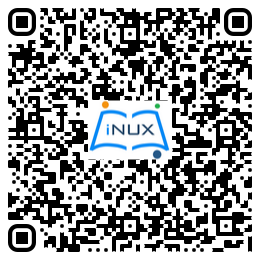
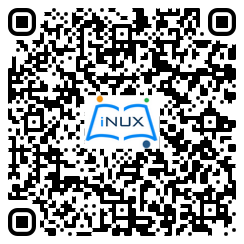
updates

diff --git a/GW_Project/Readme.md b/GW_Project/Readme.md
@@ -2,6 +2,7 @@
 
 |Content|Type|Preview|Access| QR |
 |-------|----|-------|------| ---|
-|Well catchment| Notebook with explanations| Preview FIG | [![Binder](https://mybinder.org/badge_logo.svg)](https://mybinder.org/v2/gh/gw-inux/Jupyter-Notebooks/HEAD?urlpath=voila%2Frender%2FGW_Project%2FWell_Catchment_FIG.ipynb) | ![QR](https://github.com/gw-inux/Jupyter-Notebooks/blob/main/GW_Project/FIGS/QR/QR_GWP01.png?raw=true) |
-
+|Calculation of the catchment area of an production well| Notebook with explanations| ![Preview figure](https://github.com/gw-inux/Jupyter-Notebooks/blob/main/GW_Project/FIGS/PRE/PRE_GWP01.png?raw=true) | [![Binder](https://mybinder.org/badge_logo.svg)](https://mybinder.org/v2/gh/gw-inux/Jupyter-Notebooks/HEAD?urlpath=voila%2Frender%2FGW_Project%2FWell_Catchment.ipynb) | ![QR](https://github.com/gw-inux/Jupyter-Notebooks/blob/main/GW_Project/FIGS/QR/QR_GWP01.png?raw=true) |
+|Calculation of the catchment area of an production well| Notebook with just the figure | ![Preview figure](https://github.com/gw-inux/Jupyter-Notebooks/blob/main/GW_Project/FIGS/PRE/PRE_GWP02.png?raw=true)| [![Binder](https://mybinder.org/badge_logo.svg)](https://mybinder.org/v2/gh/gw-inux/Jupyter-Notebooks/HEAD?urlpath=voila%2Frender%2FGW_Project%2FWell_Catchment_FIG.ipynb) | ![QR](https://github.com/gw-inux/Jupyter-Notebooks/blob/main/GW_Project/FIGS/QR/QR_GWP02.png?raw=true) |
+|Groundwater flow (1D) with groundwater divide| Notebook with explanations | ![Preview figure](https://github.com/gw-inux/Jupyter-Notebooks/blob/main/GW_Project/FIGS/PRE/PRE_GWP03.png?raw=true)| [![Binder](https://mybinder.org/badge_logo.svg)](https://mybinder.org/v2/gh/gw-inux/Jupyter-Notebooks/HEAD?urlpath=voila%2Frender%2FGW_Project%2FGWF_1D_unconf_analytic.ipynb) | ![QR](https://github.com/gw-inux/Jupyter-Notebooks/blob/main/GW_Project/FIGS/QR/QR_GWP03.png?raw=true) |
 
